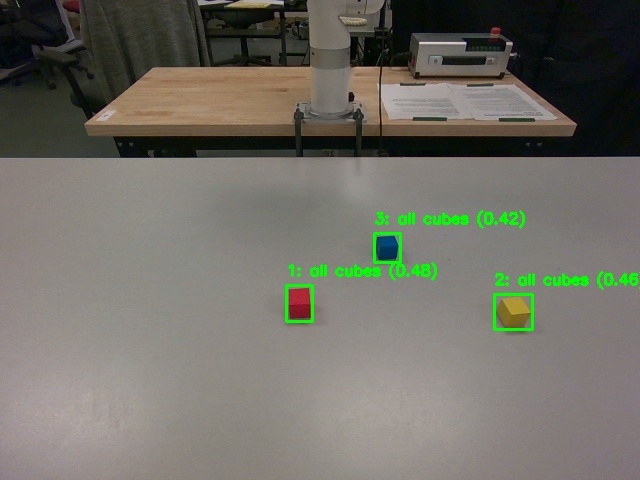
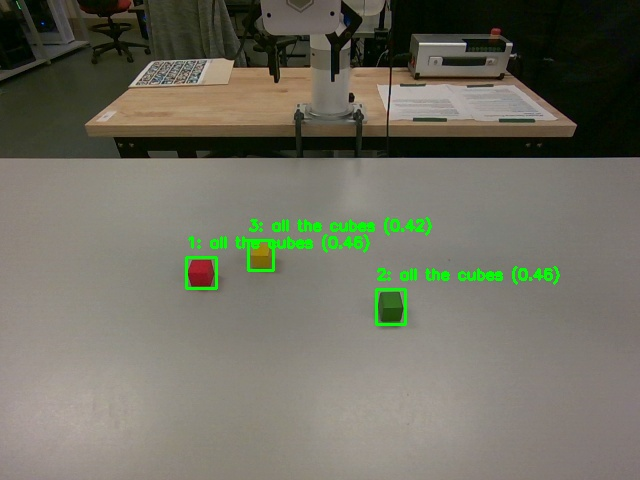
minor

diff --git a/robot.py b/robot.py
@@ -23,7 +23,7 @@ class Robot:
         grounding_dino_checkpoint_path=None,
         sam_checkpoint_path=None,
         sam_model_type="vit_h",
-        era_server_url="http://127.0.0.1:5050",
+        era_server_url="http://chicago.huan-zhang.com:22221",
         era_world_bounds=None,  # [[x_min, x_max], [y_min, y_max], [z_min, z_max]] in meters
         coordinate_mode="discrete"  # "discrete" or "scaled"
     ):
@@ -106,7 +106,7 @@ class Robot:
         # Set era_world bounds for coordinate mapping
         # Default: reasonable workspace bounds in meters
         if era_world_bounds is None:
-            self.era_world_bounds = [[-0.3, 0.3], [-0.3, 0.3], [0.0, 0.4]]  # meters
+            self.era_world_bounds = [[0.0, 0.6], [0.0, 0.6], [-0.1, 0.1]]  # meters
         else:
             self.era_world_bounds = era_world_bounds
         print(f"ERA world bounds set to: {self.era_world_bounds}")
@@ -324,6 +324,7 @@ class Robot:
         Returns:
             List of discrete 3D coordinates [X, Y, Z] in range [0, 100]
         """
+        print(f"   Points in era_world: {points_era_world}")
         discrete_coords = []
         for point in points_era_world:
             discrete_point = []
@@ -331,7 +332,7 @@ class Robot:
                 min_val, max_val = self.era_world_bounds[i]
                 # Map [min_val, max_val] to [0, 100]
                 discrete_val = int(round((val - min_val) / (max_val - min_val) * 100))
-                discrete_val = np.clip(discrete_val, 0, 100)
+                #discrete_val = np.clip(discrete_val, 0, 100)
                 discrete_point.append(discrete_val)
             discrete_coords.append(discrete_point)
         return discrete_coords
@@ -354,7 +355,7 @@ class Robot:
                 min_val, max_val = self.era_world_bounds[i]
                 # Map [min_val, max_val] to [0, 100], keep as float
                 scaled_val = (val - min_val) / (max_val - min_val) * 100
-                scaled_val = np.clip(scaled_val, 0.0, 100.0)
+                # scaled_val = np.clip(scaled_val, 0.0, 100.0)
                 scaled_point.append(scaled_val)
             scaled_coords.append(scaled_point)
         return scaled_coords
@@ -425,10 +426,13 @@ class Robot:
             # Format floats with 2 decimal places for cleaner display
             model_coords = [[round(x, 2) for x in coord] for coord in model_coords]
             print(f"   Using scaled mode: {model_coords}")
+
+        # Reorder model_coords in ascending order by the 1st index (the 2nd element)
+        model_coords = sorted(model_coords, key=lambda x: x[1])
         
         # Step 2: Format object_info string
         # Format: {'object 1': [x, y, z], 'object 2': [x, y, z], ...}
-        object_info_dict = {f"'object {i+1}'": coord for i, coord in enumerate(model_coords)}
+        object_info_dict = {f"object {i+1}": coord for i, coord in enumerate(model_coords)}
         object_info = str(object_info_dict)
         
         # Step 3: Format interaction_history
@@ -456,6 +460,9 @@ class Robot:
         # Step 6: Parse response to extract action
         # Expected format: <|action_start|>[X, Y, Z, Roll, Pitch, Yaw, Gripper]<|action_end|>
         action_parsed = self._parse_era_response(response)
+
+        # we need to subtract 9 from the z coordinate of the action_parsed
+        # action_parsed[2] -= 9
         
         if action_parsed is None:
             raise ValueError("Failed to parse action from ERA model response")
@@ -466,6 +473,9 @@ class Robot:
         # action_parsed = [X, Y, Z, Roll, Pitch, Yaw, Gripper]
         position_model = action_parsed[:3]
         gripper_state = action_parsed[6]
+
+        # position_model = model_coords[0]
+        # gripper_state = 0
         
         # Convert back to era_world (works for both modes)
         position_era_world = self.discrete_to_era_world(position_model)
@@ -487,9 +497,9 @@ class Robot:
         ])
         
         # Step 11: Update interaction history
-        # self.interaction_history.append(action_parsed)
+        self.interaction_history.append(action_parsed)
         
-        print(f"   Policy (step {step}): Action [{action[0]:.1f}, {action[1]:.1f}, {action[2]:.1f}, {action[3]}] mm")
+        print(f"   Policy (step {step}): Action [{action[0]}, {action[1]}, {action[2]}, {action[3]}] mm")
         
         return action
     
@@ -580,8 +590,8 @@ class Robot:
         # Keep orientation unchanged
         target_pose = [flange_x, flange_y, flange_z, current_roll, current_pitch, current_yaw]
         
-        print(f"   Moving to position: gripper=({target_x:.1f}, {target_y:.1f}, {target_z:.1f}), "
-              f"flange=({flange_x:.1f}, {flange_y:.1f}, {flange_z:.1f})")
+        print(f"   Moving to position: gripper=({target_x}, {target_y}, {target_z}), "
+              f"flange=({flange_x}, {flange_y}, {flange_z})")
         
         # Move arm to target position
         self.arm.move_to_pose(pose=target_pose, wait=True, ignore_error=False)
@@ -667,18 +677,11 @@ class Robot:
             
             # Execute the action using grasp
             print(f"   Executing action: [{action[0]:.1f}, {action[1]:.1f}, {action[2]:.1f}, {action[3]}]")
+            time.sleep(2)
             self.grasp(action)
             print(f"   ✓ Action executed successfully")
-            
             print(f"\nStep {step + 1} completed.")
             step += 1
-            
-            # TODO: Add termination condition
-            # - Break if task is complete
-            # - Break if no objects detected
-            # - Break on error
-            
-        print("\nExecution finished!")
     
     def cleanup(self):
         """Clean up resources."""
@@ -699,7 +702,7 @@ if __name__ == "__main__":
             grounding_dino_checkpoint_path="/home/hanyang/Downloads/xarm-calibrate-hanyang/models/groundingdino_swint_ogc.pth",
             sam_checkpoint_path="/home/hanyang/Downloads/xarm-calibrate-hanyang/models/sam_vit_h_4b8939.pth",
             sam_model_type="vit_h",
-            era_server_url="http://127.0.0.1:5050",  # ERA model server URL (can be remote)
+            era_server_url="http://chicago.huan-zhang.com:22221",  # ERA model server URL (can be remote)
             coordinate_mode="discrete"  # "discrete" (int) or "scaled" (float)
         )
         
@@ -707,9 +710,9 @@ if __name__ == "__main__":
         # vision_instruction: what to detect with the vision module
         # task_instruction: what task to perform (for the LLM policy)
         robot.execute(
-            max_steps=5,
-            vision_instruction="find all cubes",
-            task_instruction="Pick up the red cube and place it on the blue cube"
+            max_steps=1,
+            vision_instruction="find all the cubes",
+            task_instruction="Pick up the red cube and place it on the green cube"
         )
     except KeyboardInterrupt:
         print("\nInterrupted by user.")

diff --git a/calibrate_cam_unflip_era_world.py b/calibrate_cam_unflip_era_world.py
@@ -54,7 +54,7 @@ def get_tabletop_points(rgb_list, depth_list, R_list, t_list, intr_list, bbox, d
 
 
 def main():
-    use_robot = True  # whether the robot is connected. Set to False for cam-only env
+    use_robot = False  # whether the robot is connected. Set to False for cam-only env
     calibrate = True  # whether to calibrate the camera. If false, use the pre-calibrated camera parameters
     use_wrist_cam = True  # whether the wrist camera is connected. When doing hand-eye calibration, must be True
     gripper_enable = True  # whether to use the gripper. If changed to other end effectors, should be False

diff --git a/real_world/real_env.py b/real_world/real_env.py
@@ -433,7 +433,7 @@ class RealEnv:
                 # t_gripper2wristcam = calibration_handeye_result['t_gripper2cam']
                 R_base2board = calibration_handeye_result['R_base2world']
                 t_base2board = calibration_handeye_result['t_base2world']
-            else:e
+            else:
                 R_base2board = None
                 t_base2board = None
             rvecs, tvecs = self.fixed_camera_calibrate()
